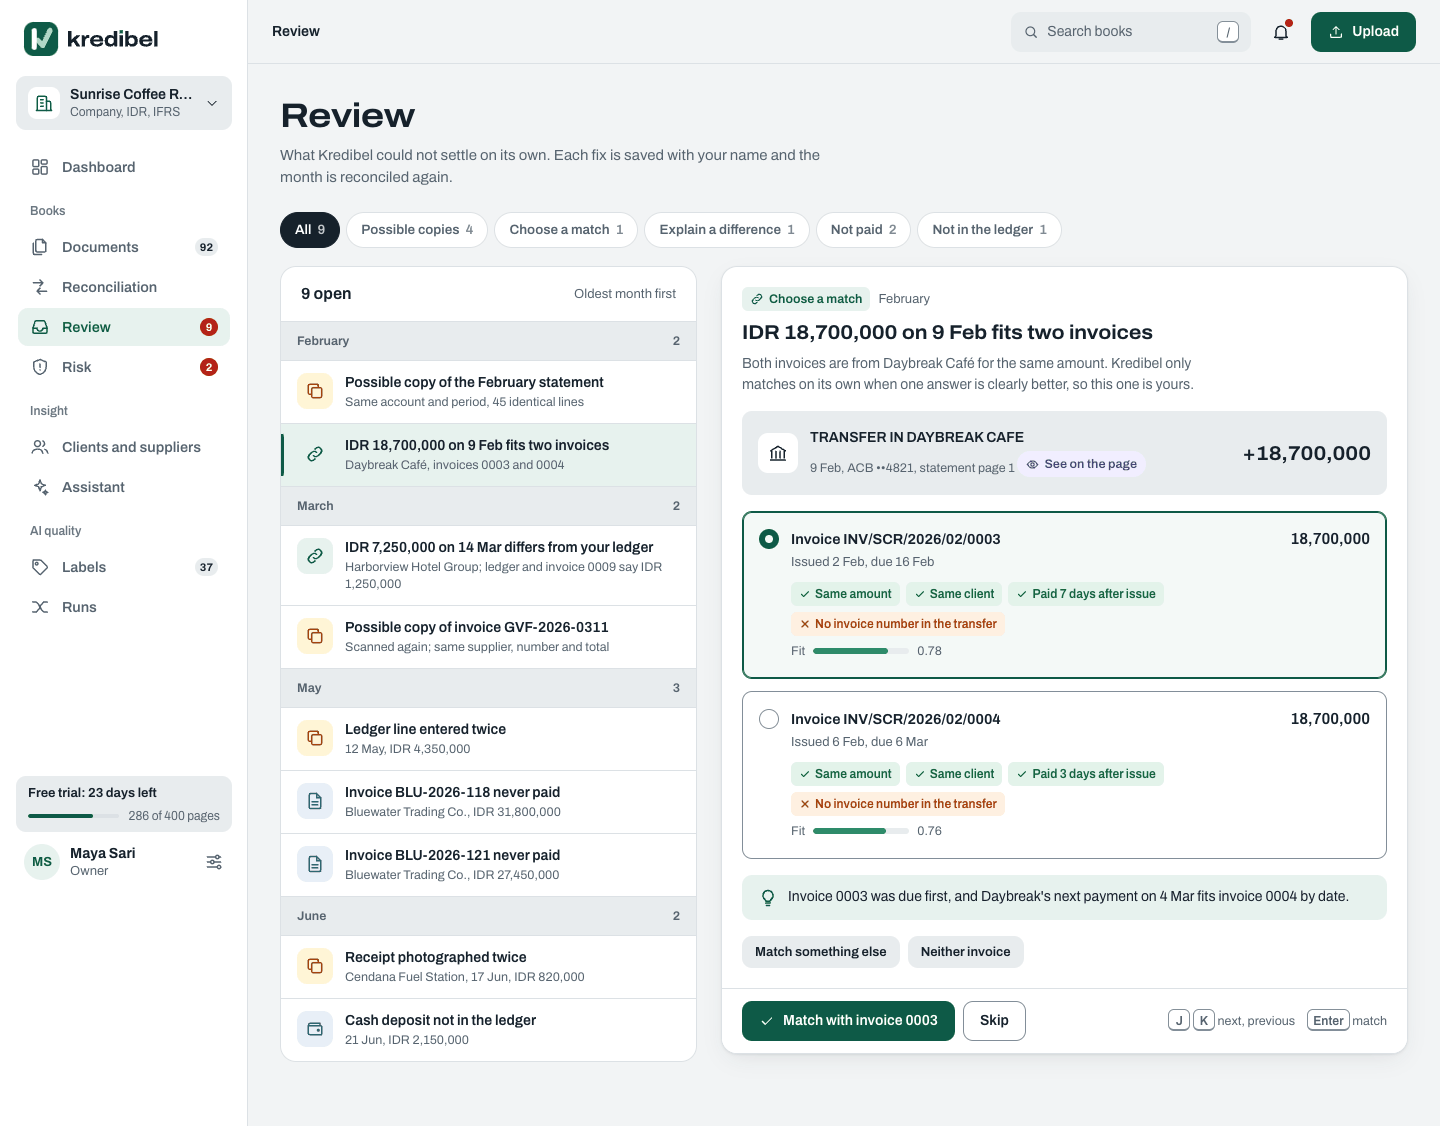
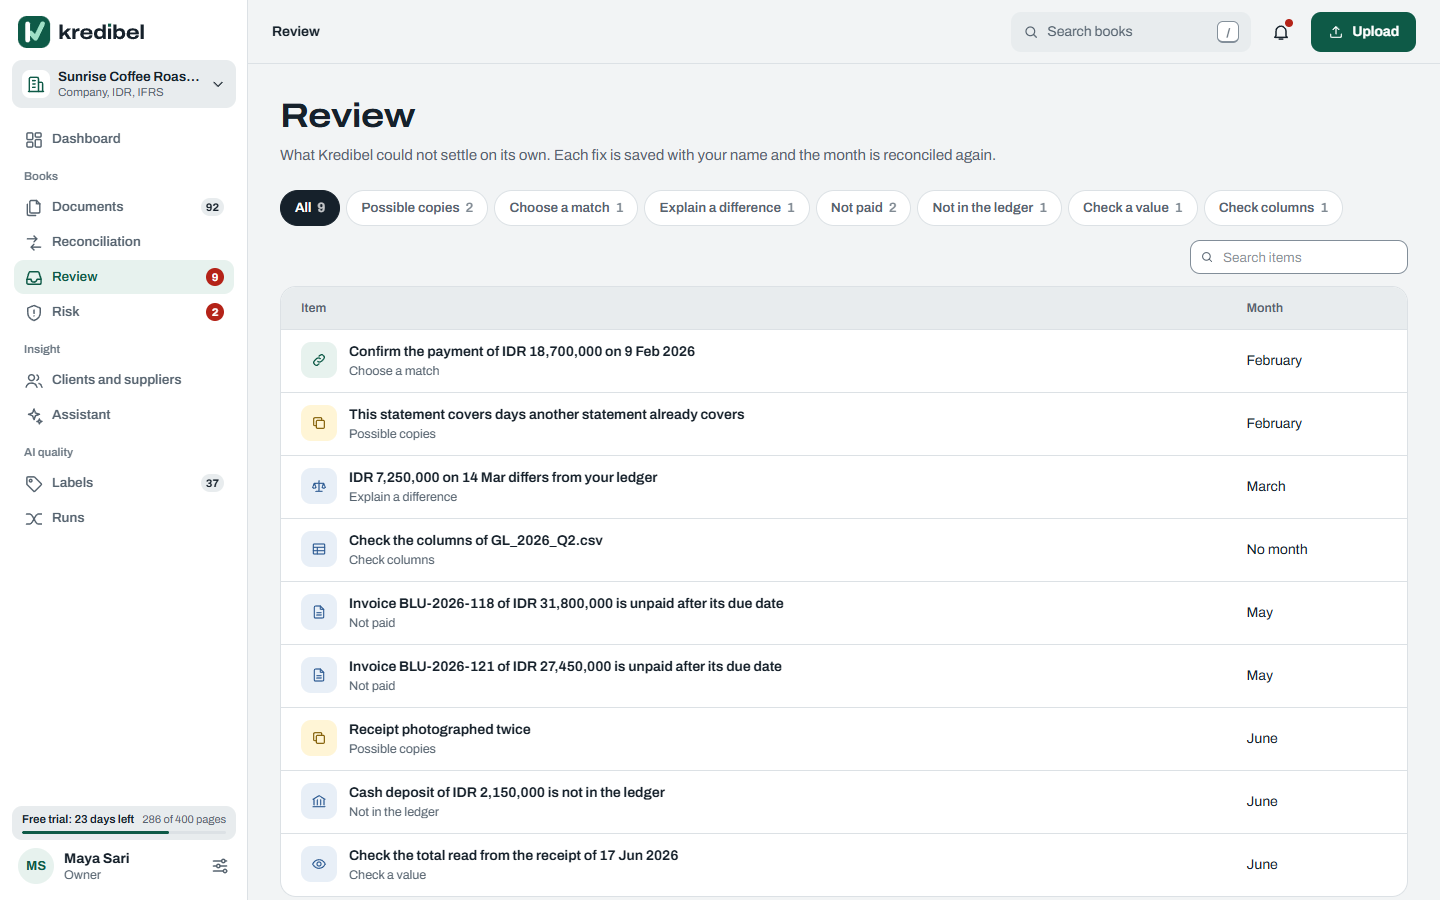
feat(020): product screenshots from the app, copy that follows main
After merging main the public pages showed the old screens and described
features as they were before specs 005, 010, 011 and 018 shipped.

- The four product screenshots are captured from the app's synthetic
  preview routes with the spec 019 parity fixtures
  (`npm run marketing:shots`, tests/marketing, its own Playwright
  config), no longer copied from the mock shots; the dashboard frames
  the profit and loss flow and the landing shows it whole.
- Ledger import: code proposes the columns from the header words and the
  value shapes; the model is asked only about headers code cannot place.
- Dashboard copy follows its new order: figures, the profit and loss
  flow, then the money flow; captions match the new screens.
- How it works mentions the Finance Assistant's cited answers, as far as
  they are built.
- The unused landing.how copy is removed.

Tasks: T020-31

diff --git a/frontend/tests/marketing/shots.spec.ts b/frontend/tests/marketing/shots.spec.ts
@@ -1,0 +1,99 @@
+/**
+ * The public site's product screenshots (spec 020, T020-31): the real app on its synthetic preview
+ * routes, fed the same fixtures as the parity checks (spec 019), so the landing and How it works
+ * always show the current screens. Synthetic data only (docs/18). Run: `npm run marketing:shots`.
+ */
+import { expect, type Page, test } from '@playwright/test'
+import { DASHBOARD } from '../../src/widgets/dashboard/dashboard.fixture'
+import { CASH, FLOW_PARTIES, FLOW_STATEMENT, LINES } from '../../src/widgets/dashboard/charts.fixture'
+import { PNL } from '../../src/widgets/profit-loss/fixture'
+import { DOCUMENT, MONTH, pageImageFromMock, REVIEW, WORKSPACE } from '../visual/fixtures'
+
+const OUT = 'public/marketing'
+
+/** One API for every screen: each route answers from its fixture, anything else is empty. */
+async function serve(page: Page, extra: (path: string) => unknown = () => undefined, png?: Buffer) {
+  const countsByKind = Object.fromEntries(
+    REVIEW.items.map((i) => [i.kind, REVIEW.items.filter((o) => o.kind === i.kind).length]),
+  )
+  await page.route(
+    (url) => url.pathname.startsWith('/api/'),
+    (route) => {
+      const url = new URL(route.request().url())
+      const path = url.pathname
+      const own = extra(path)
+      if (own !== undefined) return route.fulfill({ json: own })
+      if (path.includes('/pages/') && png) return route.fulfill({ body: png, contentType: 'image/png' })
+      if (path === '/api/workspace') return route.fulfill({ json: WORKSPACE })
+      if (path === '/api/dashboard') return route.fulfill({ json: DASHBOARD })
+      if (path === '/api/profit-loss') return route.fulfill({ json: PNL })
+      if (path === '/api/money-flow')
+        return route.fulfill({ json: url.searchParams.get('view') === 'COUNTERPARTIES' ? FLOW_PARTIES : FLOW_STATEMENT })
+      if (path === '/api/cash-flow') return route.fulfill({ json: CASH })
+      if (path === '/api/review-items') return route.fulfill({ json: { items: REVIEW.items, countsByKind, nextCursor: null } })
+      if (path === '/api/months/2026-03') return route.fulfill({ json: MONTH.month })
+      if (path === '/api/months') return route.fulfill({ json: { items: MONTH.months } })
+      if (path === '/api/matches') return route.fulfill({ json: { items: MONTH.matches } })
+      if (path === '/api/invoices') return route.fulfill({ json: { items: MONTH.invoices } })
+      if (path === '/api/receipts') return route.fulfill({ json: { items: MONTH.receipts } })
+      if (path === '/api/findings') return route.fulfill({ json: { items: MONTH.findings } })
+      if (path === '/api/bank-lines') return route.fulfill({ json: LINES })
+      return route.fulfill({ json: { items: [] } })
+    },
+  )
+}
+
+async function shoot(page: Page, name: string) {
+  await page.evaluate(() => document.fonts.ready)
+  await page.screenshot({ path: `${OUT}/${name}.png`, animations: 'disabled' })
+}
+
+test('dashboard: the figures and where the money went', async ({ page }) => {
+  await serve(page)
+  await page.goto('/preview/shell')
+  await page.getByRole('button', { name: 'All months', exact: true }).click()
+  const panel = page.getByRole('heading', { name: 'Profit and loss', exact: true }).first()
+  await expect(panel).toBeVisible()
+  // Frame the profit and loss flow: the section is "where the money went".
+  const top = (await panel.boundingBox())?.y ?? 0
+  await page.evaluate((y) => window.scrollTo(0, y), Math.max(0, top - 120))
+  await page.waitForTimeout(400)
+  await shoot(page, 'dashboard')
+})
+
+test('month: March with its explained risk and bank lines', async ({ page }) => {
+  await serve(page, (path) => (path === '/api/bank-lines' ? { items: MONTH.lines, nextCursor: null } : undefined))
+  await page.goto('/preview/months/2026-03')
+  await expect(page.getByRole('heading', { name: 'March 2026' })).toBeVisible()
+  await expect(page.getByText('Critical risk this month')).toBeVisible()
+  await shoot(page, 'month')
+})
+
+test('review: the short queue', async ({ page }) => {
+  await serve(page, (path) => (path === '/api/bank-lines' ? { items: REVIEW.lines, nextCursor: null } : undefined))
+  await page.goto('/preview/review')
+  await expect(page.getByText('Confirm the payment of IDR 18,700,000 on 9 Feb 2026')).toBeVisible()
+  await shoot(page, 'review')
+})
+
+test('evidence: the lamp on the printed value beside both readings', async ({ page }) => {
+  const { png, box } = await pageImageFromMock(page, 'document')
+  const lines = DOCUMENT.lines.map((line) =>
+    line.txId === 'tx_feb_09' && box ? { ...line, readings: { amount: { ...line.readings.amount, bbox: box } } } : line,
+  )
+  await serve(
+    page,
+    (path) => {
+      if (path === `/api/documents/${DOCUMENT.document.docId}`) return DOCUMENT.document
+      if (path === '/api/bank-lines') return { items: lines, nextCursor: null }
+      return undefined
+    },
+    png,
+  )
+  await page.goto(`/preview/documents/${DOCUMENT.document.docId}`)
+  await expect(page.getByRole('heading', { name: 'ACB_Feb_2026.pdf' })).toBeVisible()
+  await page.getByRole('row', { name: /TRANSFER IN DAYBREAK CAFE/ }).click()
+  await expect(page.locator('.page-zoom img')).toBeVisible()
+  await page.evaluate(() => window.scrollTo(0, 0))
+  await shoot(page, 'evidence-viewer')
+})

diff --git a/design/mocks/assets/kit.css b/design/mocks/assets/kit.css
@@ -2269,7 +2269,7 @@ button.tab { border: 0; background: transparent; cursor: pointer; font-family: i
 
 /* Screens: the app's real screens rise and lie flat as they arrive (scroll-linked --p) ------ */
 .pub-screens { display: grid; grid-template-columns: minmax(0, 1fr); gap: var(--k-space-6); margin-top: var(--k-space-12); perspective: 1800px; perspective-origin: 50% 0%; }
-@container app (width >= 900px) { .pub-screens { grid-template-columns: repeat(3, minmax(0, 1fr)); } .pub-screens > :nth-child(1) { grid-column: 1 / -1; } .pub-screens > :nth-child(n+2) img { max-height: 240px; } }
+@container app (width >= 900px) { .pub-screens { grid-template-columns: repeat(3, minmax(0, 1fr)); } .pub-screens > :nth-child(1) { grid-column: 1 / -1; } .pub-screens > :nth-child(n+2) img { max-height: 240px; } .pub-screens > :nth-child(1) img { max-height: none; } }
 .pub-shot { margin: 0; display: grid; grid-template-rows: minmax(0, 1fr) auto; border-radius: 22px; overflow: hidden; background: var(--k-color-bg-surface); color: var(--k-color-text-default); box-shadow: var(--pub-shadow-deep), 0 0 0 1px var(--pub-rule); transform-origin: 50% 0%; transform: rotateX(calc((1 - var(--p, 1)) * 34deg)) translate3d(0, calc((1 - var(--p, 1)) * 80px), calc((1 - var(--p, 1)) * -160px)); }
 .pub-screens > :nth-child(2) { transform: rotateX(calc((1 - var(--p, 1)) * 44deg)) translate3d(0, calc((1 - var(--p, 1)) * 140px), calc((1 - var(--p, 1)) * -220px)); }
 .pub-screens > :nth-child(3) { transform: rotateX(calc((1 - var(--p, 1)) * 52deg)) translate3d(0, calc((1 - var(--p, 1)) * 200px), calc((1 - var(--p, 1)) * -280px)); }

diff --git a/frontend/src/app/styles/kit.css b/frontend/src/app/styles/kit.css
@@ -2262,7 +2262,7 @@ button.tab { border: 0; background: transparent; cursor: pointer; font-family: i
 
 /* Screens: the app's real screens rise and lie flat as they arrive (scroll-linked --p) ------ */
 .pub-screens { display: grid; grid-template-columns: minmax(0, 1fr); gap: var(--k-space-6); margin-top: var(--k-space-12); perspective: 1800px; perspective-origin: 50% 0%; }
-@container app (width >= 900px) { .pub-screens { grid-template-columns: repeat(3, minmax(0, 1fr)); } .pub-screens > :nth-child(1) { grid-column: 1 / -1; } .pub-screens > :nth-child(n+2) img { max-height: 240px; } }
+@container app (width >= 900px) { .pub-screens { grid-template-columns: repeat(3, minmax(0, 1fr)); } .pub-screens > :nth-child(1) { grid-column: 1 / -1; } .pub-screens > :nth-child(n+2) img { max-height: 240px; } .pub-screens > :nth-child(1) img { max-height: none; } }
 .pub-shot { margin: 0; display: grid; grid-template-rows: minmax(0, 1fr) auto; border-radius: 22px; overflow: hidden; background: var(--k-color-bg-surface); color: var(--k-color-text-default); box-shadow: var(--pub-shadow-deep), 0 0 0 1px var(--pub-rule); transform-origin: 50% 0%; transform: rotateX(calc((1 - var(--p, 1)) * 34deg)) translate3d(0, calc((1 - var(--p, 1)) * 80px), calc((1 - var(--p, 1)) * -160px)); }
 .pub-screens > :nth-child(2) { transform: rotateX(calc((1 - var(--p, 1)) * 44deg)) translate3d(0, calc((1 - var(--p, 1)) * 140px), calc((1 - var(--p, 1)) * -220px)); }
 .pub-screens > :nth-child(3) { transform: rotateX(calc((1 - var(--p, 1)) * 52deg)) translate3d(0, calc((1 - var(--p, 1)) * 200px), calc((1 - var(--p, 1)) * -280px)); }

diff --git a/frontend/playwright.marketing.config.ts b/frontend/playwright.marketing.config.ts
@@ -1,0 +1,25 @@
+import { defineConfig } from '@playwright/test'
+
+/**
+ * Captures the public site's product screenshots (spec 020, T020-31) from the app's synthetic preview
+ * routes: `npm run marketing:shots`. Not a test suite; it writes `public/marketing/*.png`.
+ * `PLAYWRIGHT_CHROMIUM_EXECUTABLE` points at a local Chromium when Playwright's own is not installed.
+ */
+export default defineConfig({
+  testDir: './tests/marketing',
+  reporter: 'list',
+  retries: 0,
+  use: {
+    baseURL: 'http://localhost:5173',
+    viewport: { width: 1440, height: 900 },
+    deviceScaleFactor: 1,
+    launchOptions: process.env.PLAYWRIGHT_CHROMIUM_EXECUTABLE
+      ? { executablePath: process.env.PLAYWRIGHT_CHROMIUM_EXECUTABLE }
+      : {},
+  },
+  webServer: {
+    command: 'npm run dev -- --port 5173',
+    url: 'http://localhost:5173',
+    reuseExistingServer: true,
+  },
+})

diff --git a/docs/specs/020-public-site/tasks.md b/docs/specs/020-public-site/tasks.md
@@ -83,3 +83,8 @@
   Tests extended and the spec updated; the stale landing mock is retired (spec 019, AC-019-1: an
   implemented screen never keeps a deprecated mock); the baselines are still to record on the CI image
   (`make test-visual`), and the axe pass in Storybook is still to run (`make storybook-build`).
+- [x] **T020-31** After merging main (specs 005, 010, 011, 018, 019): the product screenshots come
+  from the app's synthetic preview routes (`npm run marketing:shots`, `tests/marketing/`, the parity
+  fixtures of spec 019) instead of copies of the mock shots; copy follows the shipped product (ledger
+  columns proposed by code with the model as fallback, the dashboard's profit and loss flow, the
+  assistant's cited answers); the unused `landing.how` copy is removed. (AC-020-4, 6)

diff --git a/docs/specs/020-public-site/plan.md b/docs/specs/020-public-site/plan.md
@@ -37,7 +37,9 @@ gradients, illustrations or stock photos. *Superseded for the public site by the
 - `frontend/src/app/router.tsx` — public routes, `/` index behaviour, dashboard at `/dashboard`.
 - `frontend/src/shared/ui/appShellNav.ts` and the `/` links (LoginPage, NotFoundPage, Placeholders,
   CreateWorkspaceForm, AppShell stories/tests).
-- `frontend/public/marketing/` — synthetic screenshots copied from `docs/assets/mocks/`.
+- `frontend/public/marketing/` — synthetic screenshots of the real app, captured from its preview
+  routes by `npm run marketing:shots` (`frontend/playwright.marketing.config.ts`,
+  `frontend/tests/marketing/shots.spec.ts`; `PLAYWRIGHT_CHROMIUM_EXECUTABLE` for a local Chromium).
 
 ## Revamp: "the ledger in depth" (2026-10, T020-18…30)
 
